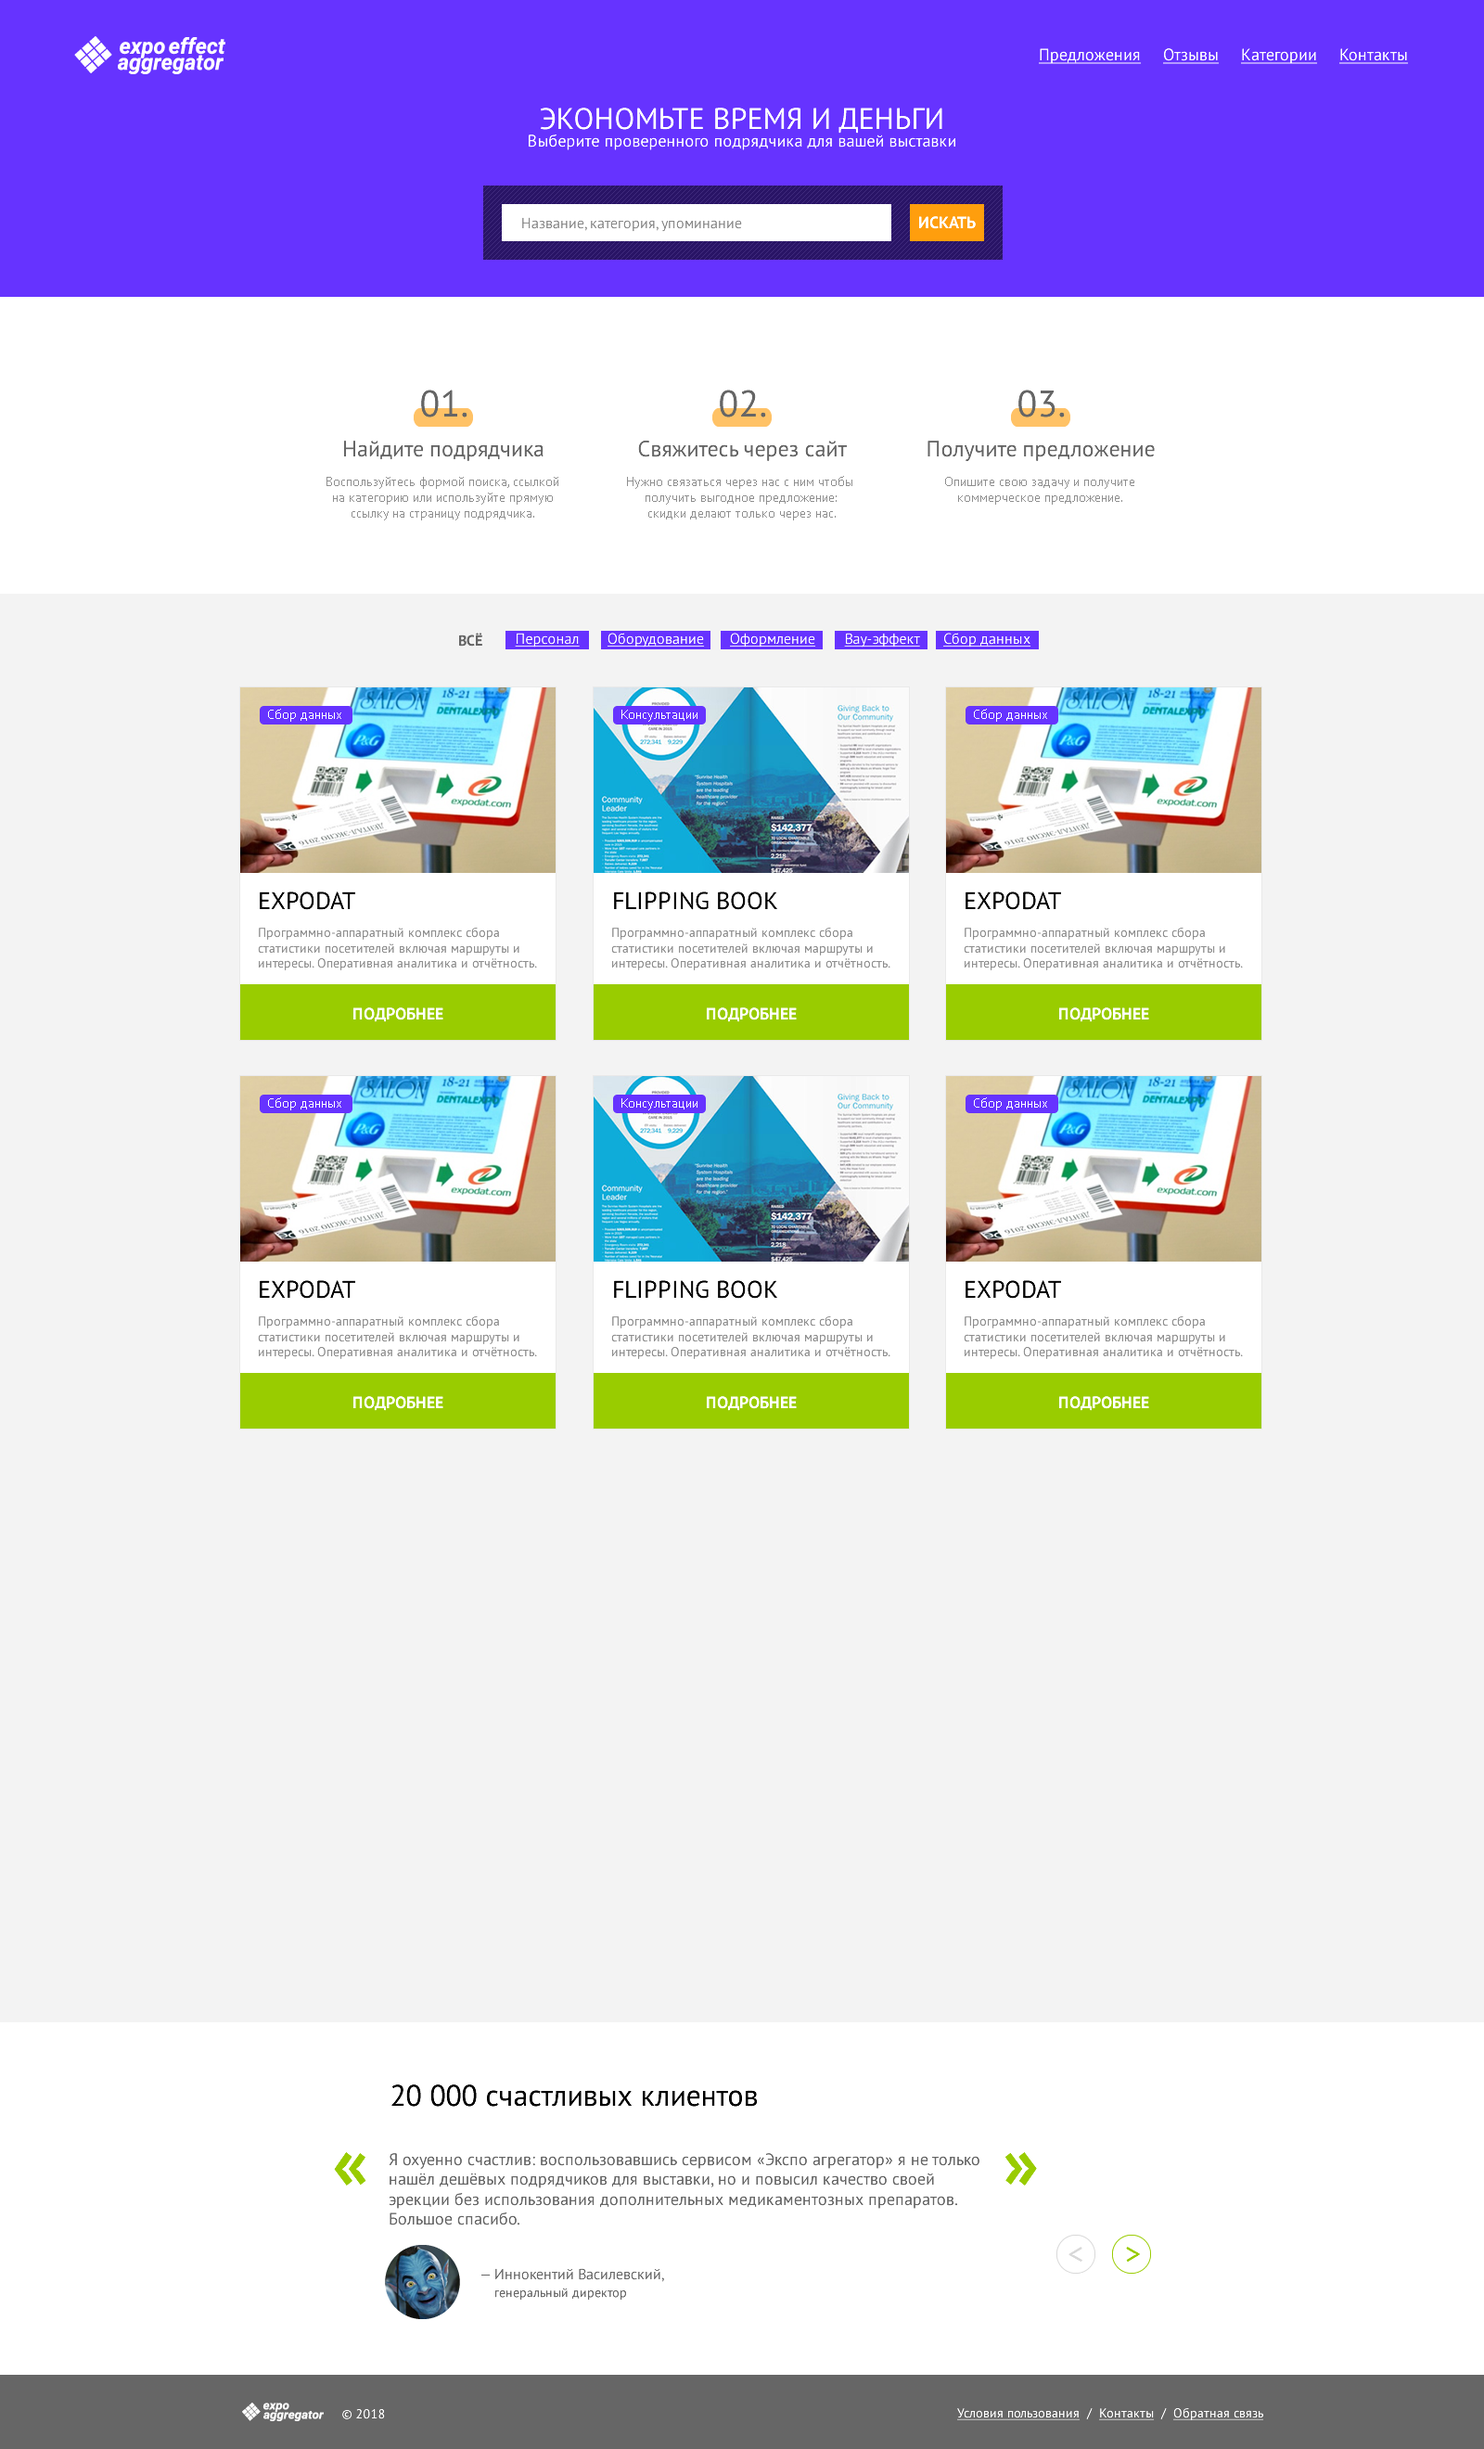
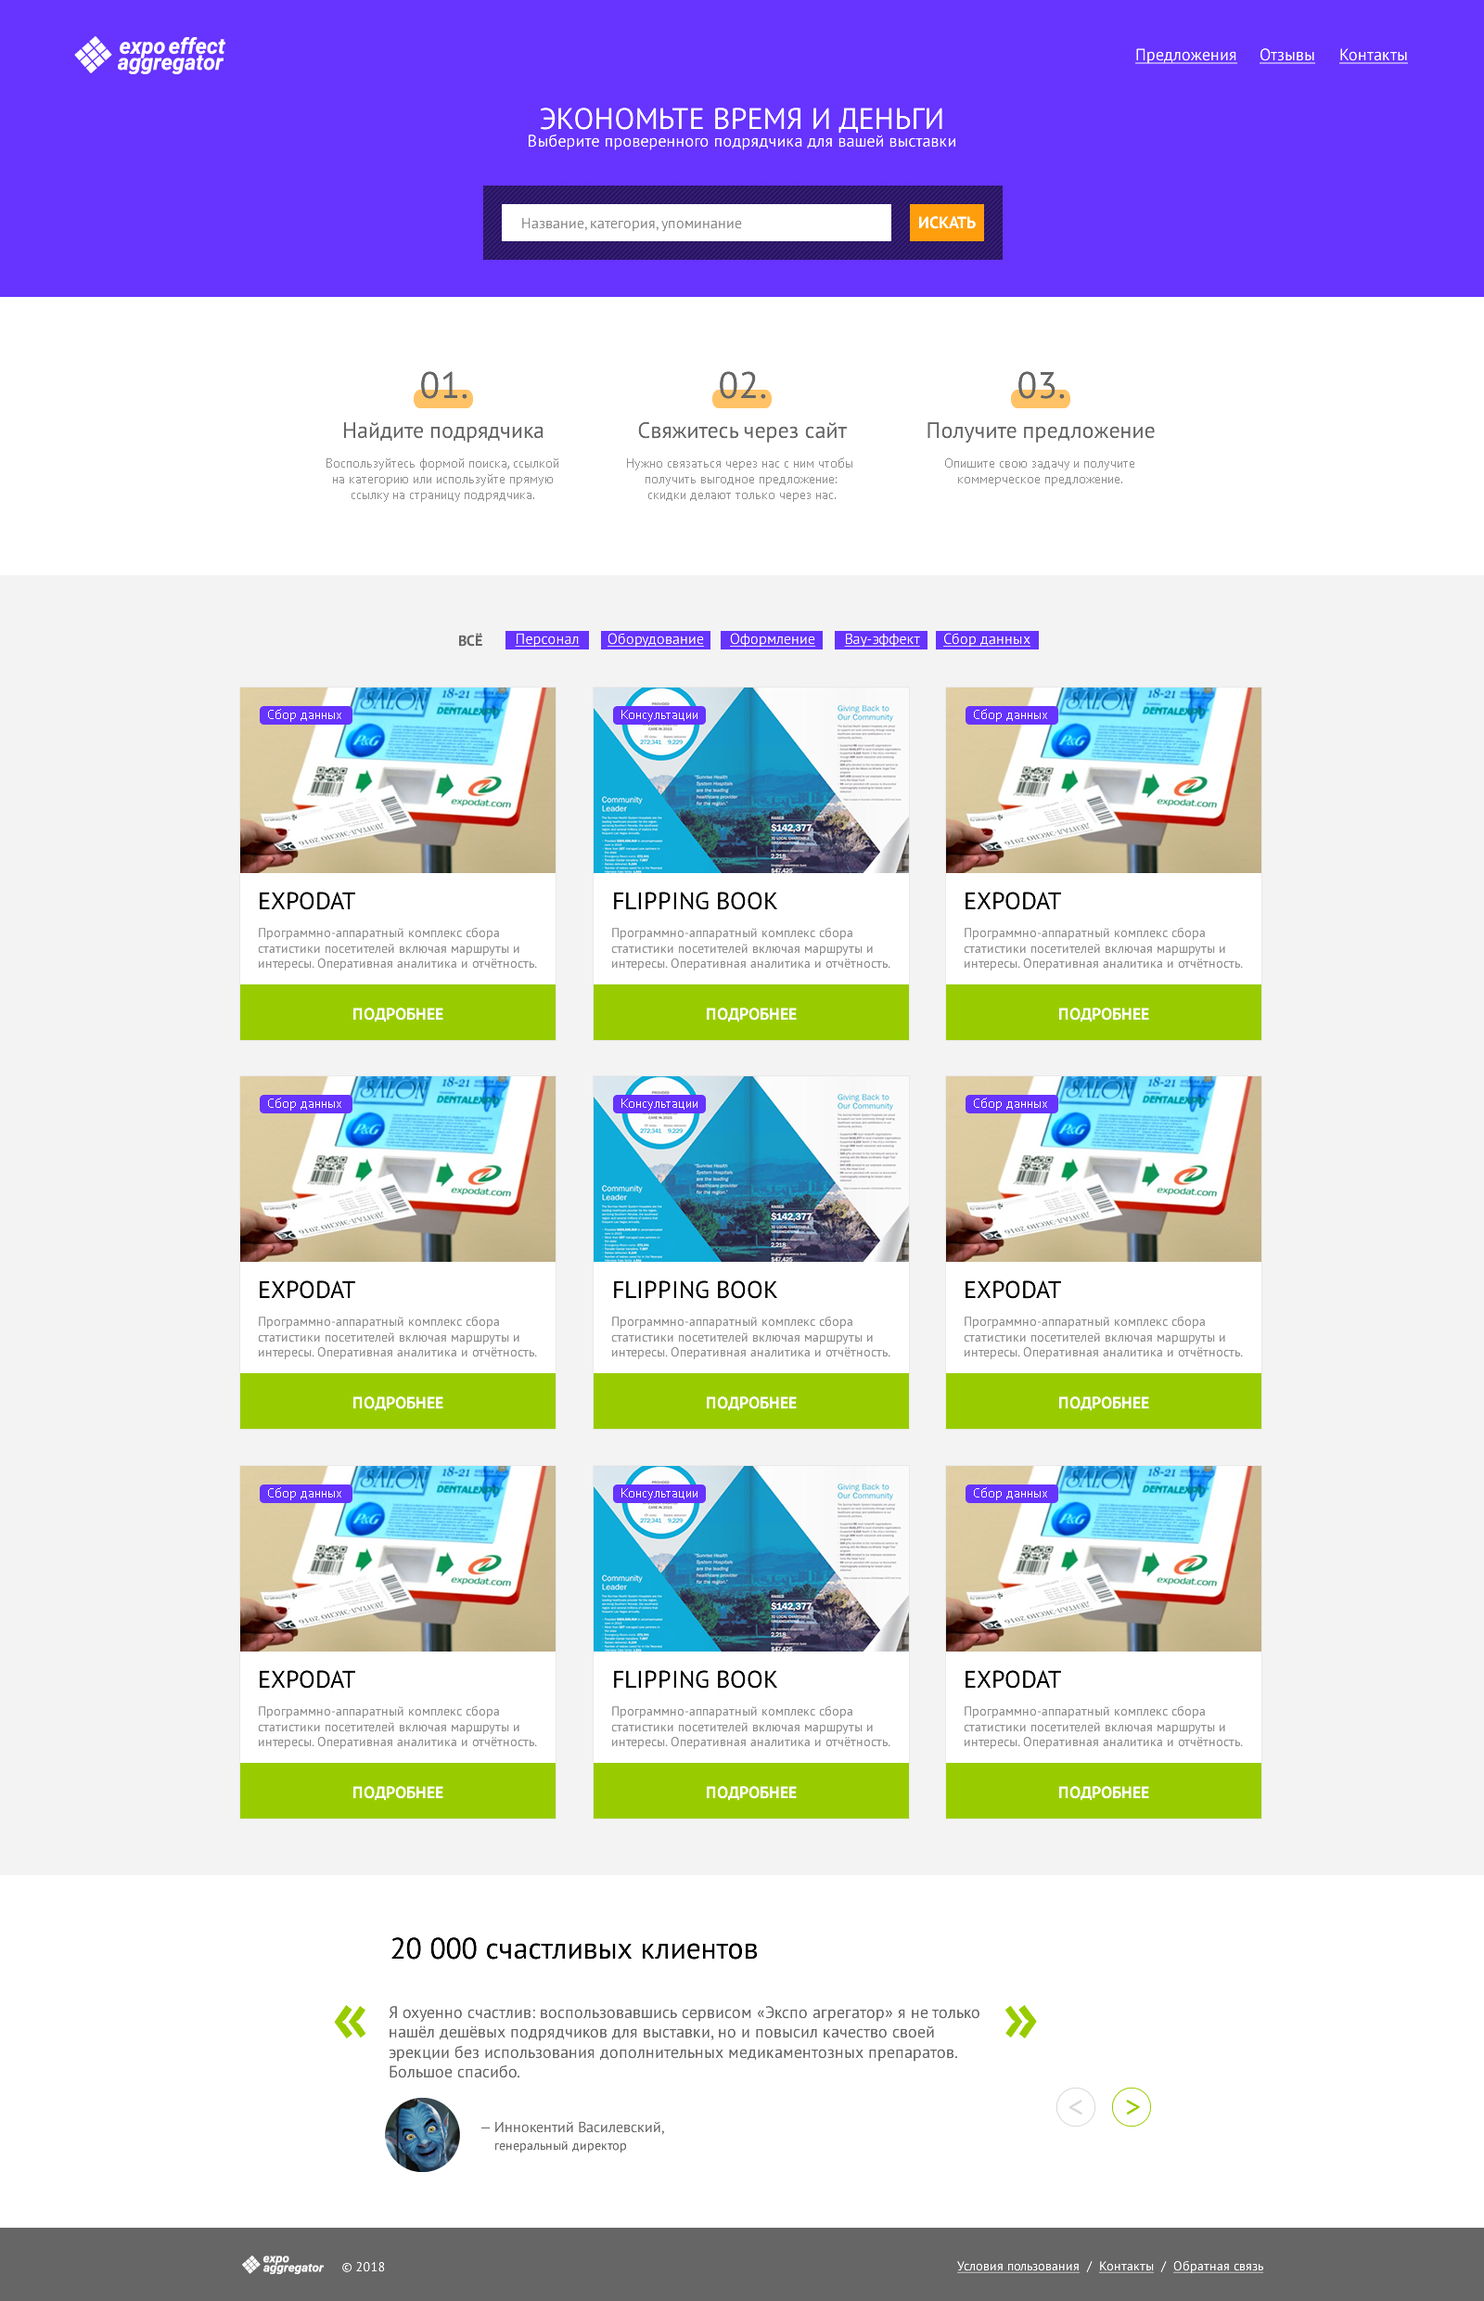
0.1.2
Главная навигация преведена в соответствие с изменением главной страницы.  Добавлен эскиз модального окна регистрации.

diff --git a/design/html/eg_1.1-modal-registration.htm b/design/html/eg_1.1-modal-registration.htm
@@ -3,10 +3,10 @@
 <!-- saved from url=(0014)about:internet -->
 <html xmlns="http://www.w3.org/1999/xhtml">
 <head>
-<title>eg_1.1</title>
+<title>eg_1.1-modal-registration.png</title>
 <meta http-equiv="Content-Type" content="text/html; charset=utf-8" />
-<!--Fireworks CS3 Generic target.  Created Tue Jun 19 18:13:35 GMT+0300 (Russia TZ 2 Standard Time) 2018-->
+<!--Fireworks CS3 Generic target.  Created Tue Jun 19 18:26:28 GMT+0300 (Russia TZ 2 Standard Time) 2018-->
 </head>
 <body bgcolor="#f3f3f3">
-<img name="eg_11" src="img/eg_1.1.png" width="1600" height="2480" border="0" id="eg_11" alt="" /></body>
+<img name="eg_11modalregistration" src="img/eg_1.1-modal-registration.png" width="1600" height="951" border="0" id="eg_11modalregistration" alt="" /></body>
 </html>

diff --git a/design/html/eg_1.1-modal-login.htm b/design/html/eg_1.1-modal-login.htm
@@ -3,10 +3,10 @@
 <!-- saved from url=(0014)about:internet -->
 <html xmlns="http://www.w3.org/1999/xhtml">
 <head>
-<title>eg_1.1</title>
+<title>eg_1.1-modal-login.png</title>
 <meta http-equiv="Content-Type" content="text/html; charset=utf-8" />
-<!--Fireworks CS3 Generic target.  Created Tue Jun 19 18:13:35 GMT+0300 (Russia TZ 2 Standard Time) 2018-->
+<!--Fireworks CS3 Generic target.  Created Tue Jun 19 18:17:53 GMT+0300 (Russia TZ 2 Standard Time) 2018-->
 </head>
 <body bgcolor="#f3f3f3">
-<img name="eg_11" src="img/eg_1.1.png" width="1600" height="2480" border="0" id="eg_11" alt="" /></body>
+<img name="eg_11modallogin" src="img/eg_1.1-modal-login.png" width="1600" height="951" border="0" id="eg_11modallogin" alt="" /></body>
 </html>
